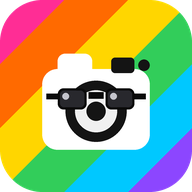
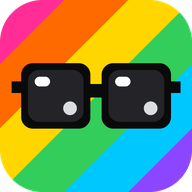
Simplify brand mark to large sunglasses only.
Drop camera body; keep six-color diagonal bands with thick black
sunglasses (~78% width) and white highlights for small sizes.

Changed region(s): [[0.0312, 0.25, 0.9688, 0.7812]]

diff --git a/components/BrandMark.tsx b/components/BrandMark.tsx
@@ -5,7 +5,7 @@ type Props = { size?: number };
 
 /**
  * Original One Day One Shot mark: rounded square, six diagonal color bands,
- * cute flat-vector camera with sunglasses. Not an Instagram logo/glyph copy.
+ * large bold sunglasses only. Not an Instagram logo/glyph copy.
  */
 export function BrandMark({ size = 72 }: Props) {
   return (
